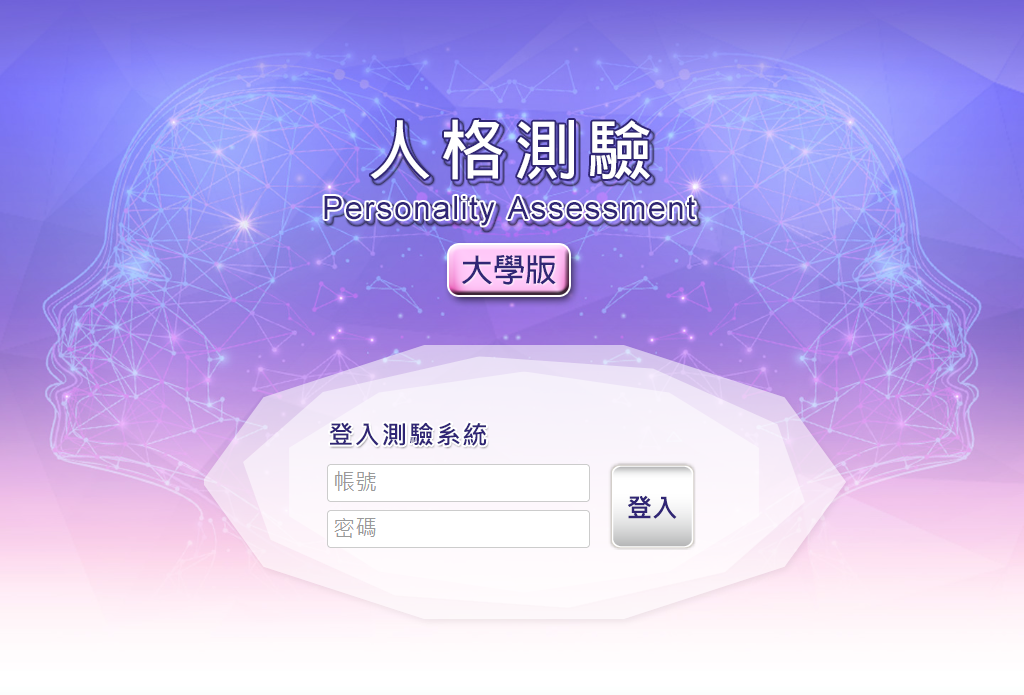
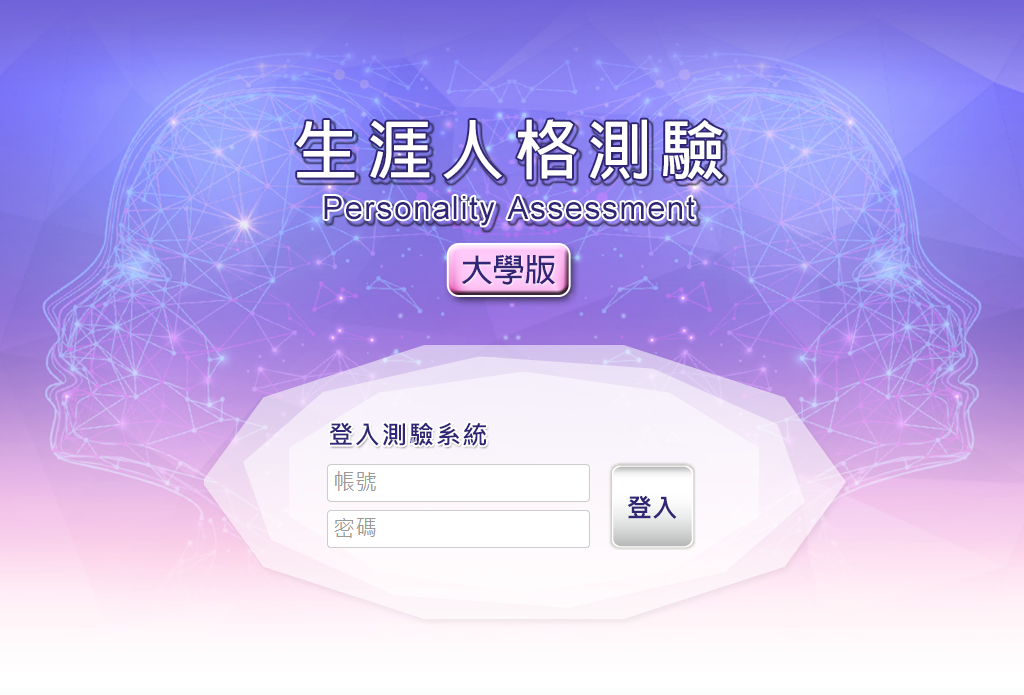
大學學生

Changed region(s): [[0.2812, 0.1511, 0.7188, 0.3324], [0.4688, 0.3626, 0.5625, 0.423]]

diff --git a/STUDENT-U/data.html b/STUDENT-U/data.html
@@ -165,16 +165,30 @@
             </div>
           </div>
         </div>
-        <div class="form-group">
-          <label for="" class="col-sm-3 col-lg-2 control-label">群組/組別：</label>
+				<div class="form-group">
+          <label for="" class="col-sm-3 col-lg-2 control-label">年級：</label>
           <div class="col-sm-9 col-lg-10">
             <div class="form-inline">
               <select class="form-control input-lg">
                 <option>請選擇</option>
-                <option selected>社會</option>
-                <option>3</option>
-                <option>4</option>
-                <option>5</option>
+                <option selected>大一</option>
+                <option>大二</option>
+                <option>大三</option>
+                <option>大四</option>
+              </select>
+            </div>
+          </div>
+        </div>
+        <div class="form-group">
+          <label for="" class="col-sm-3 col-lg-2 control-label">科系：</label>
+          <div class="col-sm-9 col-lg-10">
+            <div class="form-inline">
+              <select class="form-control input-lg">
+                <option>請選擇</option>
+                <option selected>社會學系</option>
+                <option>心理教育學系</option>
+                <option>土木系</option>
+                <option>電機系</option>
               </select>
             </div>
           </div>

diff --git a/STUDENT-U/test-3.html b/STUDENT-U/test-3.html
@@ -182,8 +182,8 @@
           <small class="text-muted">若欲進行測驗，但無班級可選，請洽貴校老師詢問。</small>
         </div>
         <div class="form-group">
-          <label for="">座號：</label>
-          <input type="text" class="form-control input-lg" placeholder="請輸入座號">
+          <label for="">學號：</label>
+          <input type="text" class="form-control input-lg" placeholder="請輸入學號">
         </div>
         <div class="form-group">
           <label for="">測驗通行碼：</label>
